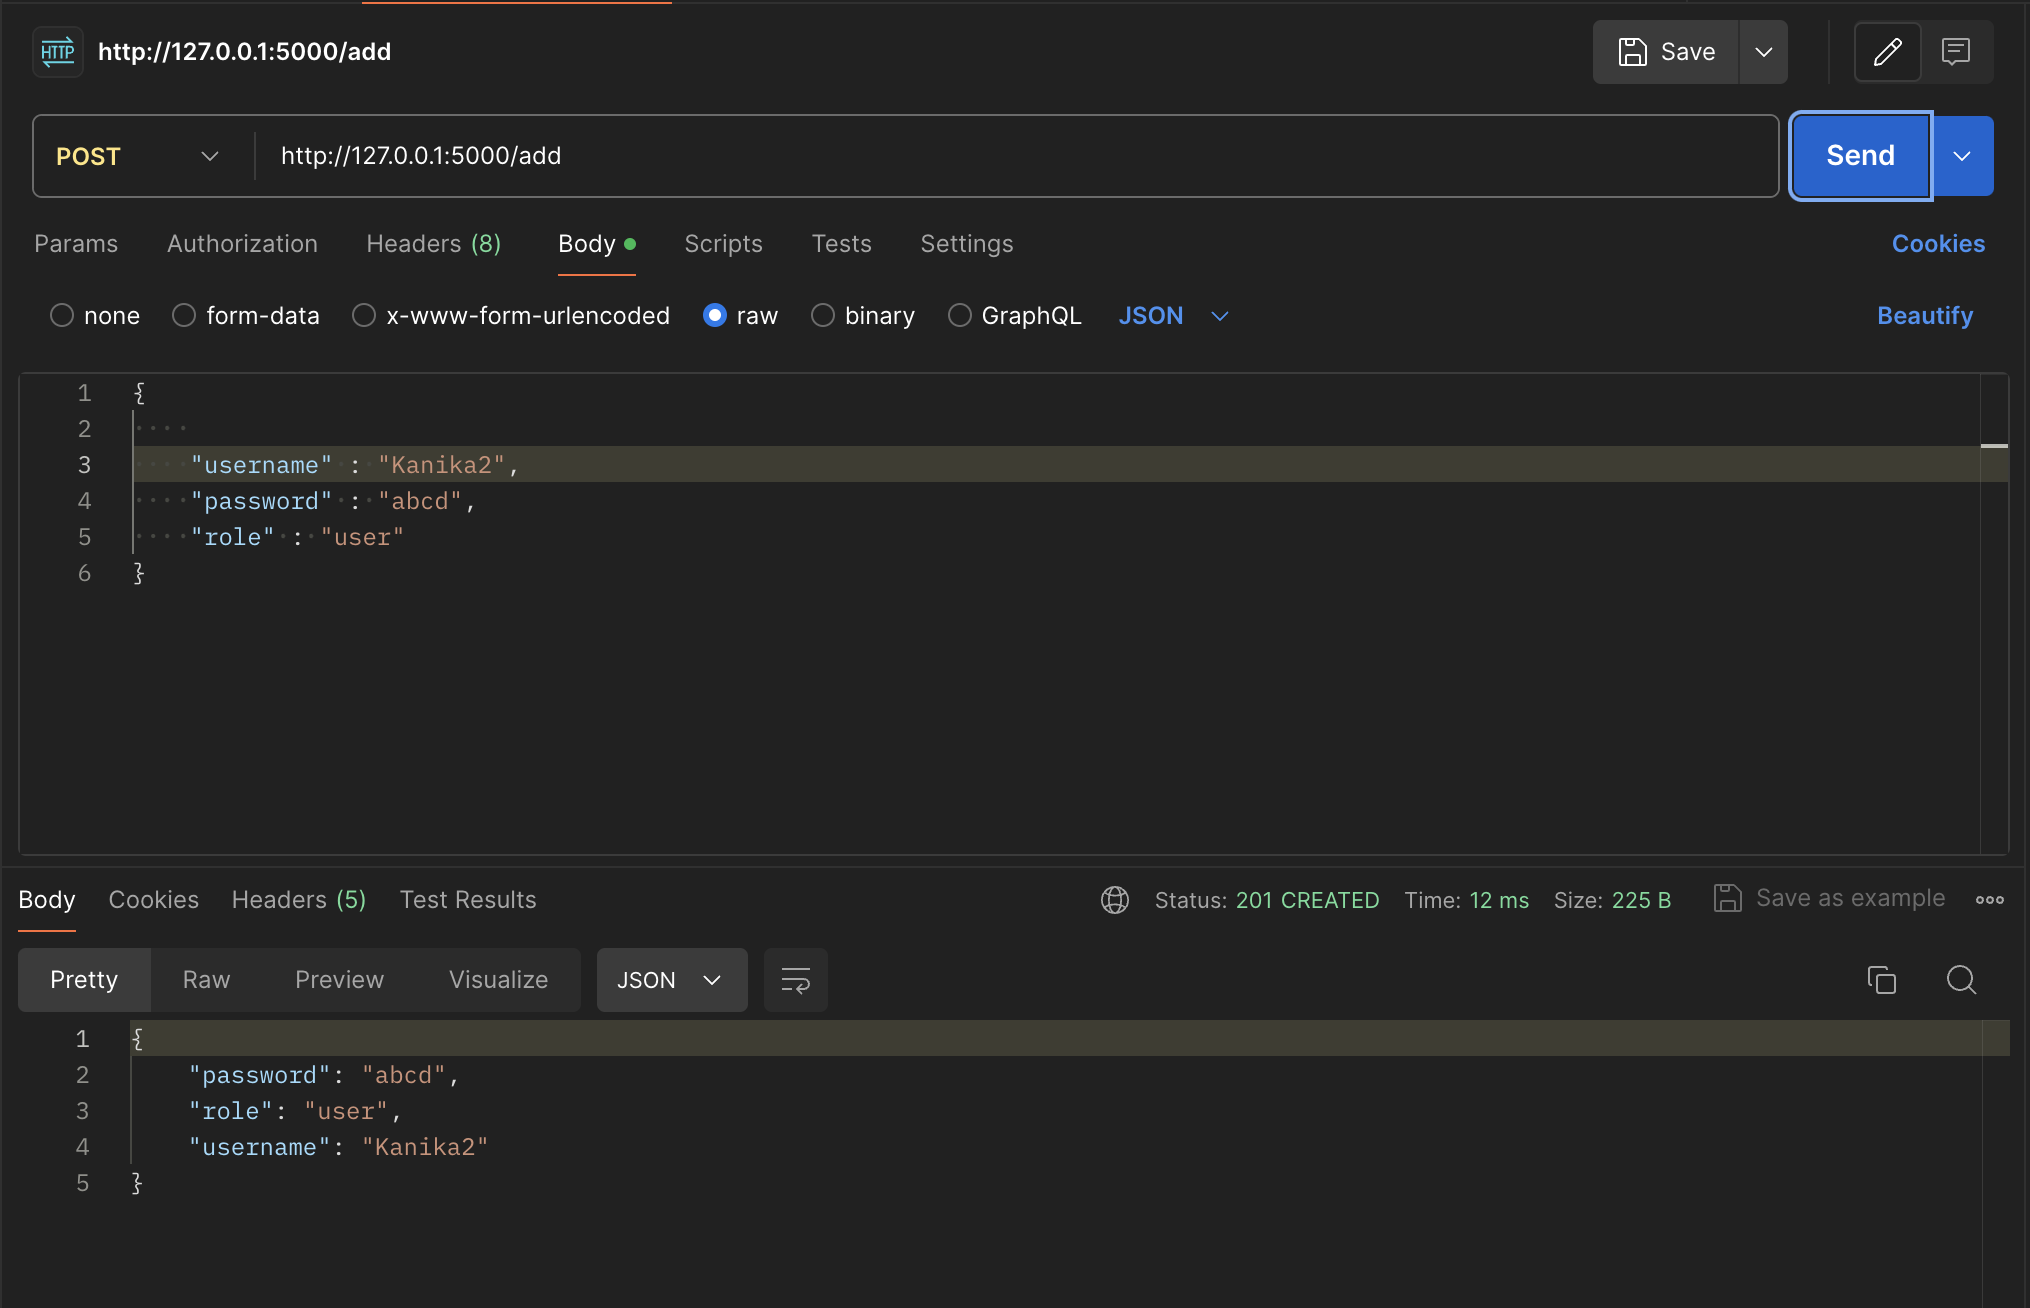
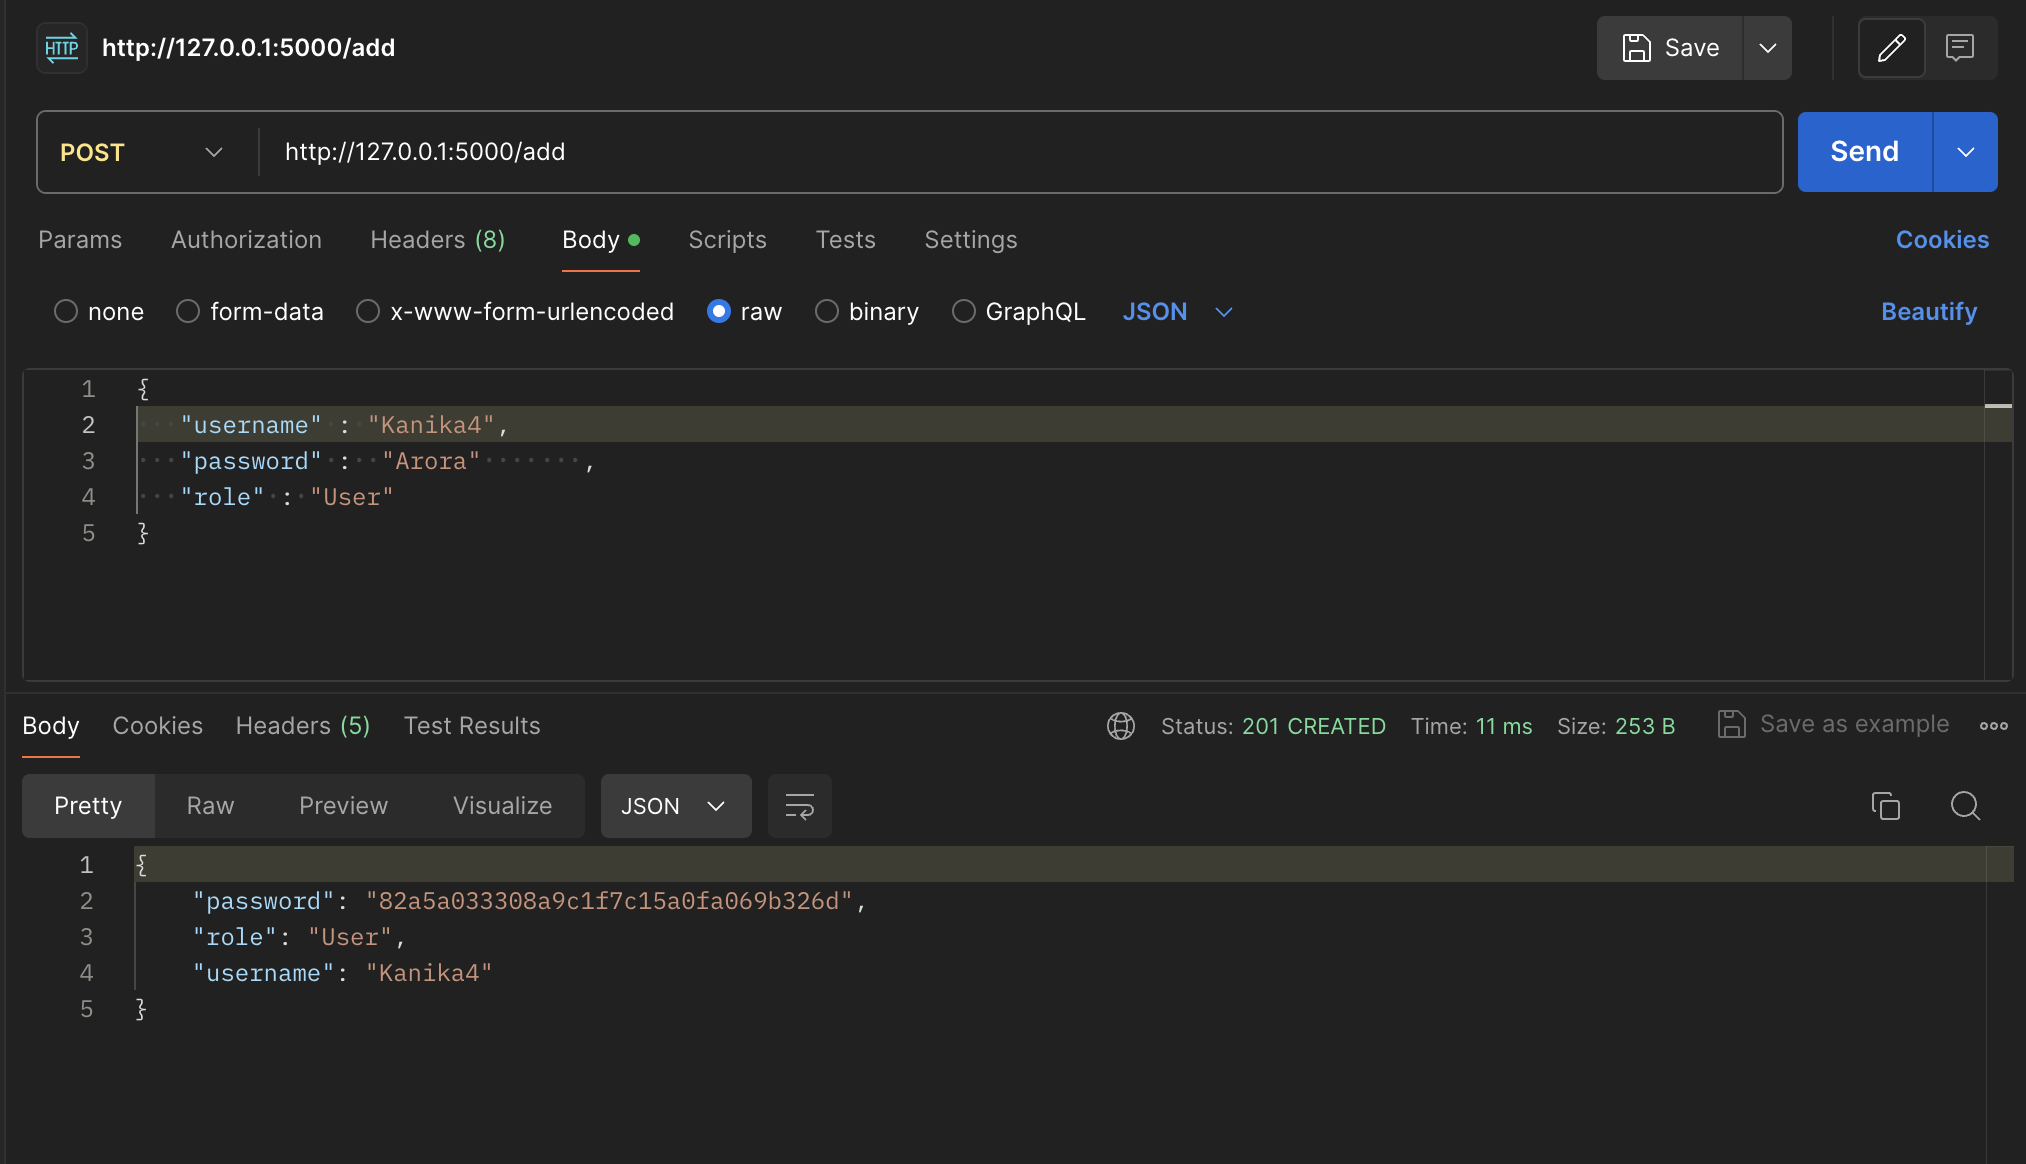
updates

diff --git a/app.py b/app.py
@@ -1,5 +1,6 @@
 from flask import Flask, request, jsonify
 from flask_mysqldb import MySQL
+import hashlib
 app = Flask(__name__)
 
 app.config['MYSQL_HOST'] = 'localhost'
@@ -8,6 +9,17 @@ app.config['MYSQL_PASSWORD'] = 'Nksk12@3'
 app.config['MYSQL_DB'] = 'products'
 
 mysql = MySQL(app)
+
+
+
+def create_table():
+     cur = mysql.connection.cursor()
+     cur.execute("CREATE TABLE IF NOT EXISTS Users (id INT AUTO_INCREMENT PRIMARY KEY ,username VARCHAR(50) UNIQUE NOT NULL, password VARCHAR(50) NOT NULL, role VARCHAR(50))")
+     mysql.connection.commit()
+     cur.close()
+
+with app.app_context():
+    create_table()     
 
 @app.route('/')
 def getResult():
@@ -45,9 +57,10 @@ def addUser():
                 return jsonify({'error': 'Missing data'}), 400
         cur = mysql.connection.cursor()
         username = data['username']
-        password = data['password']
+        hashed_password = hashlib.md5(data['password'].encode('utf-8')).hexdigest()
         role = data['role']
-        cur.execute('''INSERT INTO Users (username,password,role) VALUES (%s, %s, %s)''', (username,password,role))
+        data['password'] = hashed_password
+        cur.execute('''INSERT INTO Users (username,password,role) VALUES (%s, %s, %s)''', (username,hashed_password,role))
         mysql.connection.commit()
         cur.close()
         return jsonify(data), 201
@@ -85,3 +98,6 @@ def deleteUser(id):
     
     except Exception as e:
         return jsonify({'error': str(e)}), 500
+    
+
+
